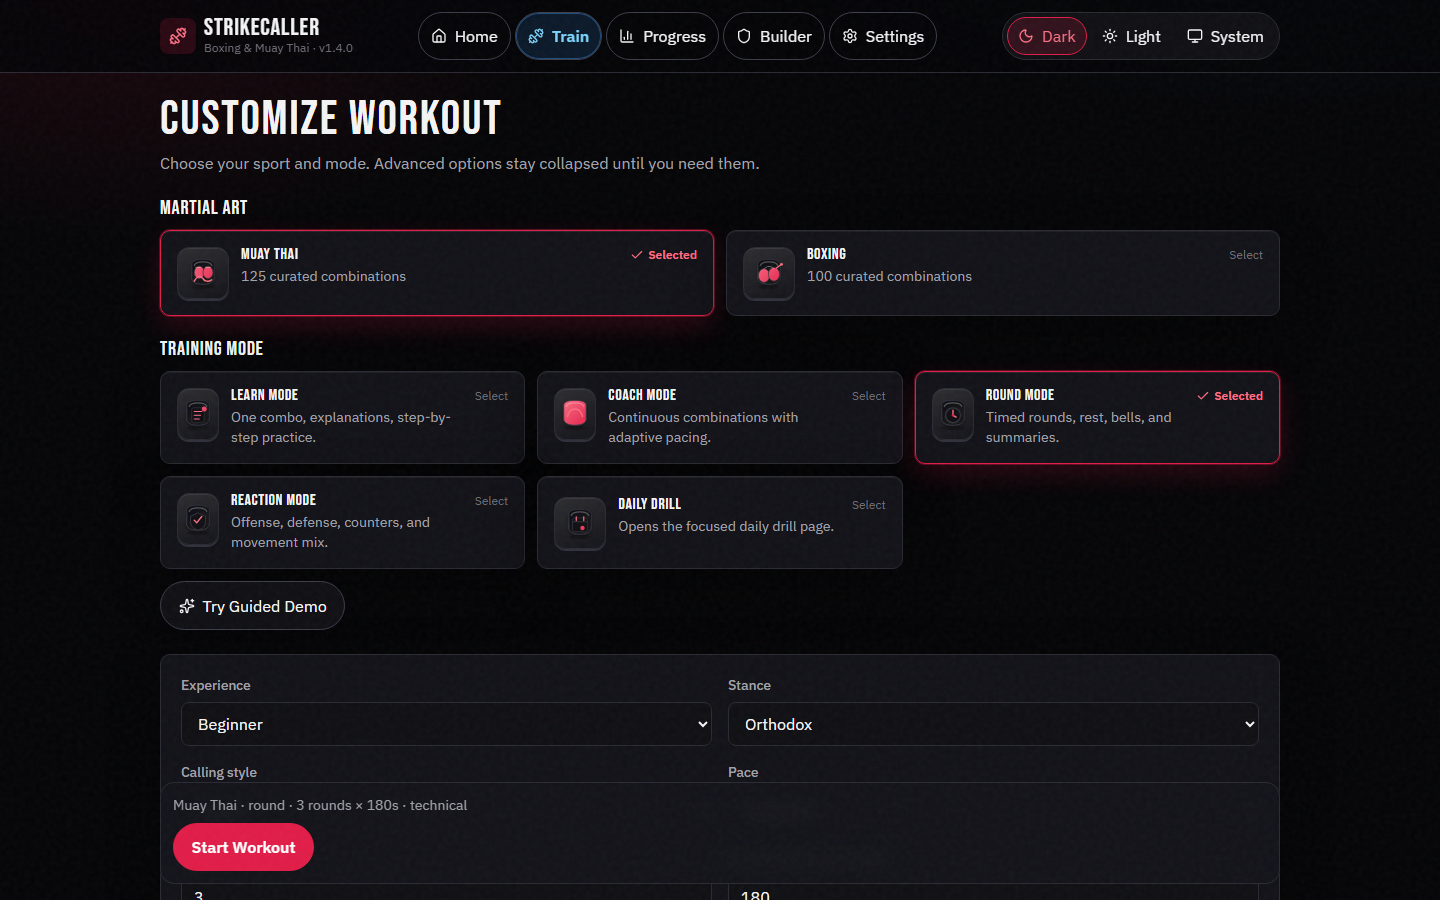
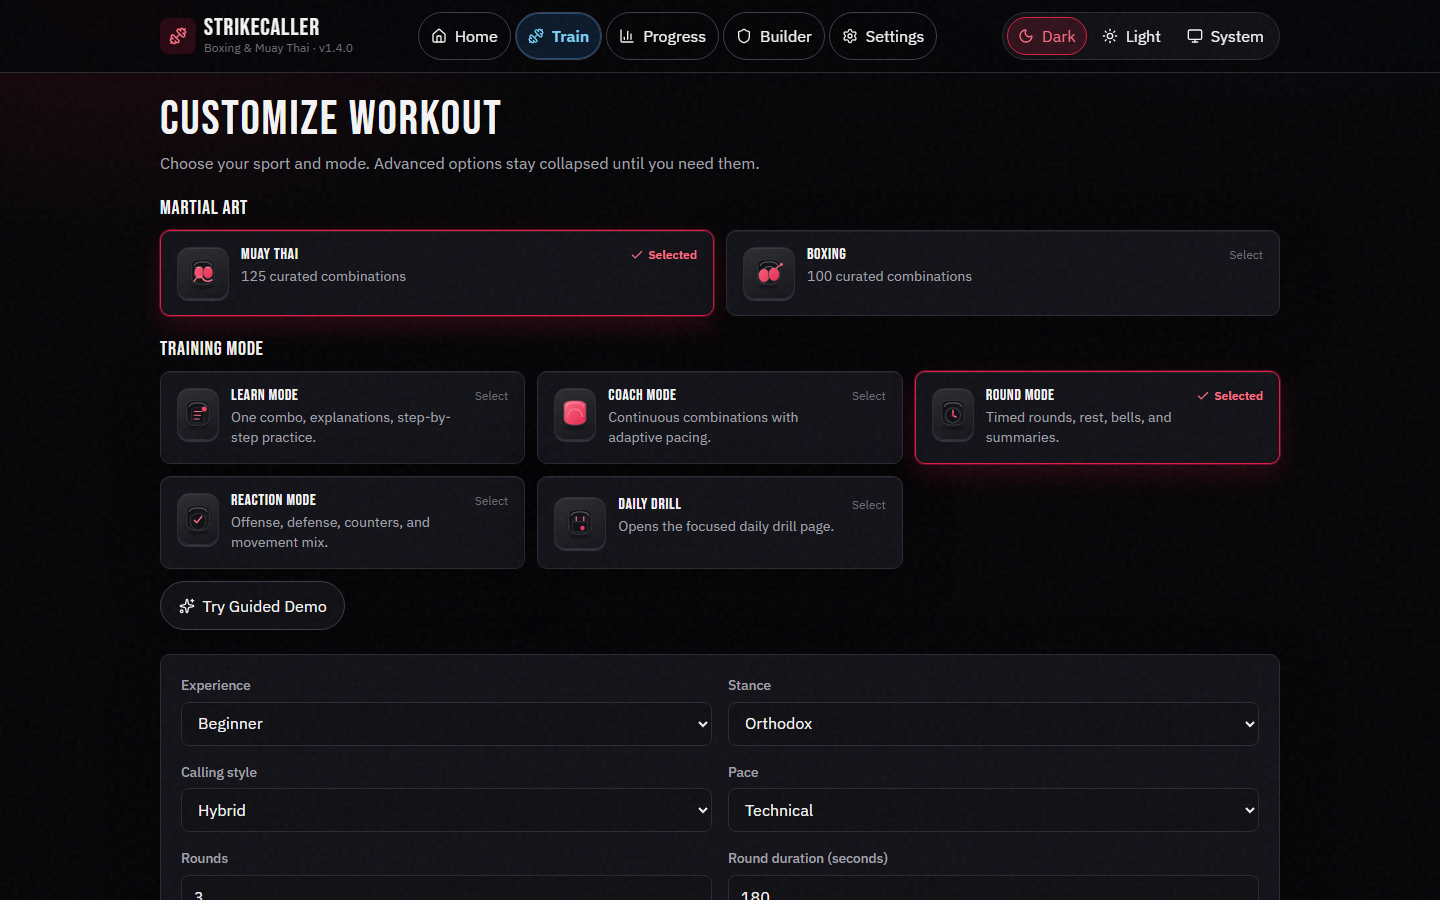
fix: keep Train Start from covering the form on short desktops
Desktop Start stays in document flow so sport and mode options remain usable, mobile sticky clearance is preserved, and Summary/Train screenshots match v1.4 chrome after a real completed workout.

diff --git a/e2e/mobile.spec.ts b/e2e/mobile.spec.ts
@@ -109,4 +109,34 @@ test.describe('layout smoke', () => {
       expect(settings.scrollWidth).toBeLessThanOrEqual(settings.innerWidth + 2)
     })
   }
+
+  test('Train Start bar does not cover martial-art options on short viewports', async ({ page }) => {
+    for (const viewport of [
+      { width: 1440, height: 900 },
+      { width: 1366, height: 768 },
+      { width: 1280, height: 720 },
+      { width: 1024, height: 600 },
+      { width: 390, height: 844 },
+      { width: 375, height: 667 },
+    ]) {
+      await page.setViewportSize(viewport)
+      await openApp(page, '/train')
+      await expect(page.getByRole('heading', { name: 'Customize Workout' })).toBeVisible()
+      const bar = page.locator('.sticky-start-bar')
+      const sport = page.getByRole('radio', { name: /Muay Thai/ })
+      await expect(bar).toBeVisible()
+      await expect(sport).toBeVisible()
+      const barBox = await bar.boundingBox()
+      const sportBox = await sport.boundingBox()
+      expect(barBox, `${viewport.width}×${viewport.height} Start bar box`).toBeTruthy()
+      expect(sportBox, `${viewport.width}×${viewport.height} sport option box`).toBeTruthy()
+      if (!barBox || !sportBox) continue
+      const overlaps =
+        barBox.x < sportBox.x + sportBox.width &&
+        barBox.x + barBox.width > sportBox.x &&
+        barBox.y < sportBox.y + sportBox.height &&
+        barBox.y + barBox.height > sportBox.y
+      expect(overlaps, `${viewport.width}×${viewport.height} Start bar must not cover Muay Thai`).toBe(false)
+    }
+  })
 })

diff --git a/e2e/pwa.spec.ts b/e2e/pwa.spec.ts
@@ -16,9 +16,16 @@ test.describe('production service worker', () => {
         }),
       )
       .toBe(true)
+
+    const sw = await page.request.get(new URL('sw.js', test.info().project.use.baseURL ?? page.url()))
+    expect(sw.ok()).toBe(true)
+    const swText = await sw.text()
+    expect(swText).toMatch(/precacheAndRoute|precache/)
+    expect(swText).not.toMatch(/url:\s*["'][^"']*cloudflareinsights/)
   })
 
   test('keeps the app shell usable after a controlled reload goes offline', async ({ page, context }) => {
+    await page.route('https://static.cloudflareinsights.com/**', (route) => route.abort())
     await openApp(page)
     await expect
       .poll(async () =>

diff --git a/src/index.css b/src/index.css
@@ -1012,11 +1012,11 @@ textarea {
   backdrop-filter: blur(8px);
 }
 
-@media (min-width: 768px) {
-  .sticky-start-bar {
-    bottom: 1rem;
-  }
+.train-page {
+  padding-bottom: 5.5rem;
+}
 
+@media (min-width: 768px) {
   .session-combo-mobile {
     display: none;
   }
@@ -1037,6 +1037,17 @@ textarea {
   .session-dock-btn {
     flex-direction: row;
     font-size: 0.95rem;
+  }
+}
+
+@media (min-width: 1024px) {
+  .sticky-start-bar {
+    position: static;
+    bottom: auto;
+  }
+
+  .train-page {
+    padding-bottom: 0;
   }
 }
 

diff --git a/src/test/v121.test.tsx b/src/test/v121.test.tsx
@@ -214,6 +214,7 @@ describe('v1.2.1 mobile gym experience', () => {
     const start = screen.getByRole('button', { name: /start workout/i })
     expect(start).toBeEnabled()
     expect(document.querySelector('.sticky-start-bar')).toBeTruthy()
+    expect(document.querySelector('.train-page')).toBeTruthy()
     const rounds = screen.getByLabelText(/number of rounds/i)
     await userEvent.clear(rounds)
     await userEvent.type(rounds, '99')

diff --git a/src/pages/TrainPage.tsx b/src/pages/TrainPage.tsx
@@ -273,7 +273,7 @@ export function TrainPage() {
   }, [boxing, equipment, includeClinch, includeElbows])
 
   return (
-    <div className="space-y-6">
+    <div className="train-page space-y-6">
       <header>
         <h1 className="display text-5xl">Customize Workout</h1>
         <p className="mt-2 max-w-2xl text-[var(--text-muted)]">

diff --git a/README.md b/README.md
@@ -51,14 +51,14 @@ StrikeCaller is built so every call is trainable — curated first, generated on
 
 | Customize a workout | Daily Drill |
 |---|---|
-| <img src="./docs/screenshots/02-train-desktop.png" alt="Train screen with Boxing selected, Round Mode, southpaw stance, and a 3×180s technical session summary"> | <img src="./docs/screenshots/04-daily-desktop.png" alt="Daily Drill showing Body cross lead hook cross with Slow practice unlocked and later phases locked"> |
+| <img src="./docs/screenshots/02-train-desktop.png" alt="Train screen with Muay Thai selected, Round Mode, orthodox stance, and a 3×180s technical session without a sticky Start overlay"> | <img src="./docs/screenshots/04-daily-desktop.png" alt="Daily Drill showing Body cross lead hook cross with Slow practice unlocked and later phases locked"> |
 
 | Custom Combo Builder | Training Stats |
 |---|---|
 | <img src="./docs/screenshots/05-builder-desktop.png" alt="Custom Combo Builder with Boxing selected, Jab Cross sequence, punch palette, and Save combo"> | <img src="./docs/screenshots/06-stats-desktop.png" alt="Training Stats local-only page with two sessions, 18 minutes, and Boxing plus Muay Thai breakdown"> |
 
 <p align="center">
-  <img src="./docs/screenshots/07-summary-desktop.png" alt="Durable workout summary after a completed Boxing southpaw technical Coach session, with work time, combinations, and frequent techniques" width="900">
+  <img src="./docs/screenshots/07-summary-desktop.png" alt="Durable workout summary after a completed Muay Thai orthodox technical Coach session, with work time, combinations, and frequent techniques" width="900">
 </p>
 
 Gym-oriented Session layout (mobile):

diff --git a/CHANGELOG.md b/CHANGELOG.md
@@ -10,6 +10,7 @@ StrikeCaller v1.4 is a complete local-first Boxing and Muay Thai spoken training
 
 - Home now leads with a featured workout and a single **Start workout** action, then For You quick starts, then real stored progress, then compact tools.
 - Mobile navigation is Home · Train · Progress · More. Desktop navigation is Home · Train · Progress · Builder · Settings.
+- On desktop, Customize Workout keeps Start in document flow so it does not cover sport/mode options on short viewports. On smaller screens the Start bar stays sticky with bottom clearance.
 - StrikeCaller red remains Start / End / brand. Electric blue is reserved for navigation and cinematic lighting.
 - Session layout is intentionally unchanged: timer, round, current call, next call, combo path, Pause, Repeat, Skip, End.
 
